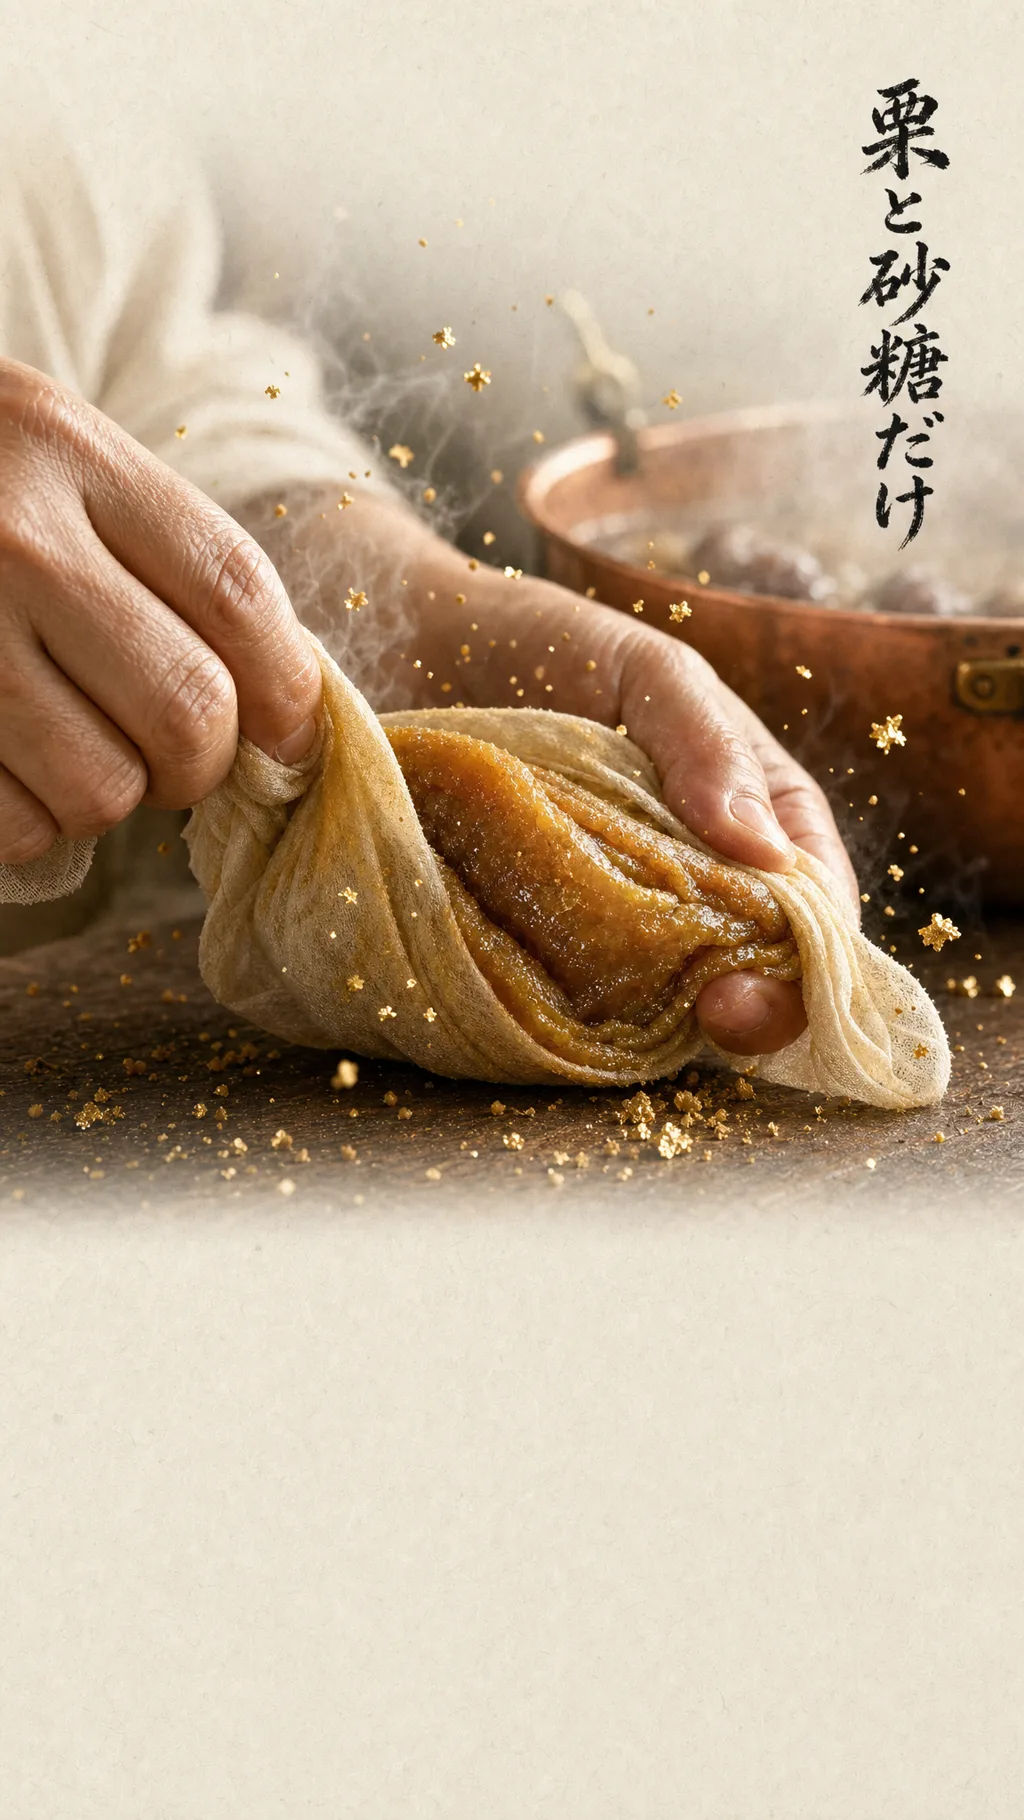
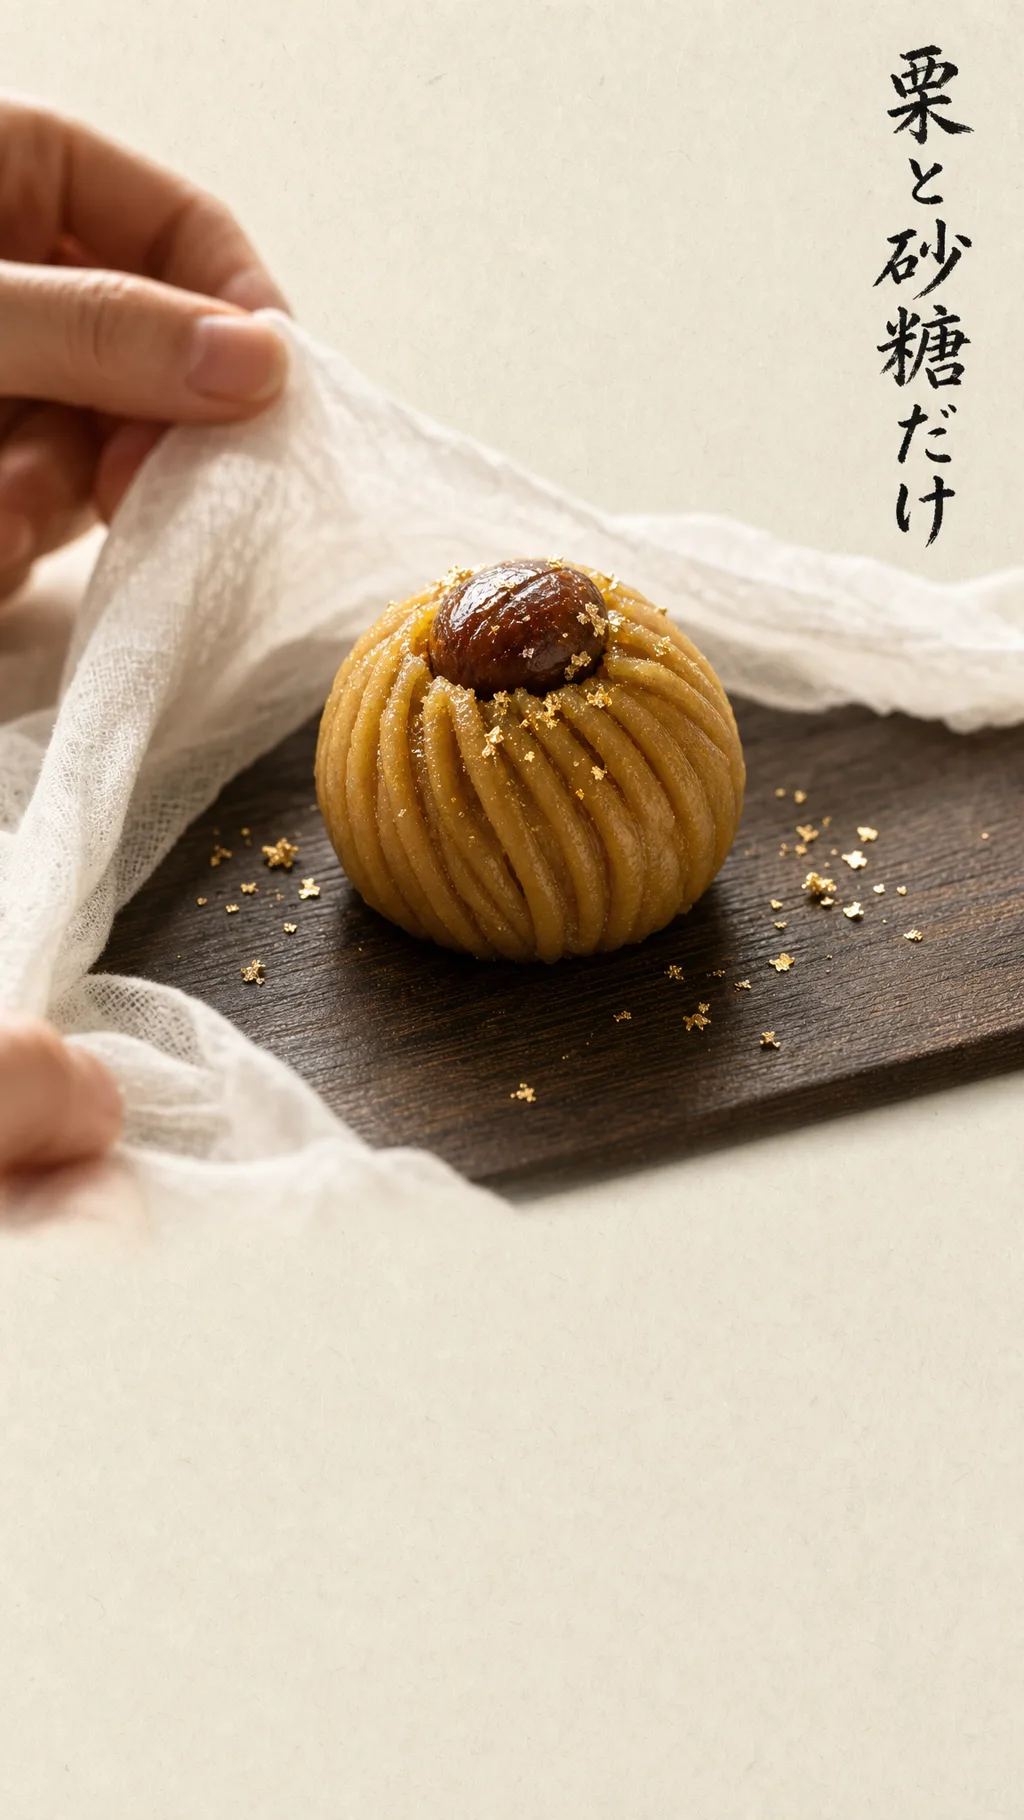
稲穂堂の2・3枚目を作り直し（演出強度をスライスの役割に合わせる）
「モチーフ統一」を「同じ演出の均一適用」と取り違えた結果、2枚目は商品の形が
読めない塊になり、3枚目は贈答箱の商品が宙に浮く不自然な絵になっていた。

- 2枚目: さらしを開いて茶巾絞りの筋がくっきり出た一粒を見せる構図に変更。
  金箔は数片が卓上に散る程度まで落とし、商品の形を最優先にした
- 3枚目: 桐箱に六個おさまった静止のギフトカットに変更。金箔は商品の上に
  まぶしてある状態にし、浮遊をやめた
- 余白位置の変更に合わせてオーバーレイ座標を再調整
- 320-1440px ではみ出し・横スクロール・alt欠落・エラーなし

diff --git a/inahodo/index.html b/inahodo/index.html
@@ -101,17 +101,17 @@
   <!-- ゾーンA+B: スライス2（世界観・製法） -->
   <div class="slice">
     <img src="images/02-craft.webp" width="1024" height="1820" loading="lazy"
-         alt="栗と砂糖だけ。職人の手が、蒸した栗の餡をさらしで絞って形をつくり、金粉と栗の粒が舞う。銅鍋では栗が炊かれている。">
-    <p class="overlay ov-lead" style="top:74%;left:10%;width:80%;height:10%;">余計なものは入れません。<br>国産栗と砂糖だけで炊き上げます。</p>
+         alt="栗と砂糖だけ。職人がさらしを開き、茶巾絞りの筋がくっきりと出た栗きんとんが一つ、黒い木のまな板の上に現れる。金箔がわずかに散っている。">
+    <p class="overlay ov-lead" style="top:72%;left:10%;width:80%;height:10%;">余計なものは入れません。<br>国産栗と砂糖だけで炊き上げます。</p>
   </div>
 
   <!-- ゾーンA+B: スライス3（オファー帯） -->
   <div class="slice">
     <img src="images/03-offer.webp" width="1024" height="1820" loading="lazy"
-         alt="オファー: 桐箱に六個並んだ栗きんとん。ひと粒が金粉をまといながら宙に浮き、朱色の紙帯が添えられている。栗きんとん 桐箱六個入 3,240円（税込）。">
-    <p class="overlay ov-label" style="top:75.5%;left:10%;width:80%;height:5%;">栗きんとん 桐箱 六個入</p>
-    <p class="overlay ov-price" style="top:81%;left:10%;width:80%;height:7%;">3,240円（税込）</p>
-    <a class="overlay btn" href="#form" style="top:89%;left:16%;width:68%;height:7%;">お取り寄せする</a>
+         alt="オファー: 桐箱に六個おさまった栗きんとん。それぞれに金箔がまぶしてあり、朱色の紙帯が添えられている。栗きんとん 桐箱六個入 3,240円（税込）。">
+    <p class="overlay ov-label" style="top:63%;left:10%;width:80%;height:5%;">栗きんとん 桐箱 六個入</p>
+    <p class="overlay ov-price" style="top:68.5%;left:10%;width:80%;height:7.5%;">3,240円（税込）</p>
+    <a class="overlay btn" href="#form" style="top:80%;left:16%;width:68%;height:7%;">お取り寄せする</a>
   </div>
 
   <!-- ゾーンC: HTML/CSS -->
